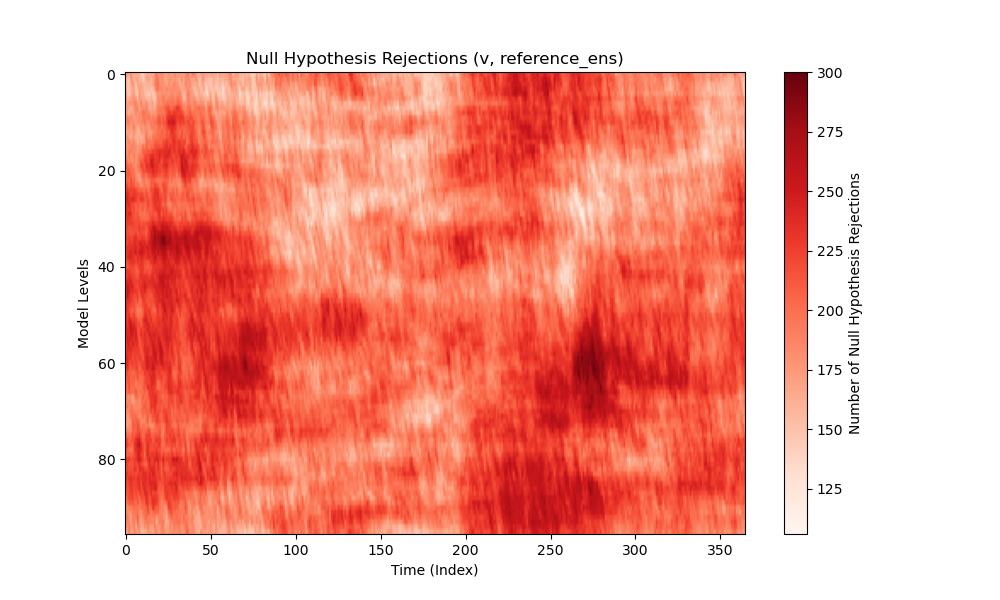
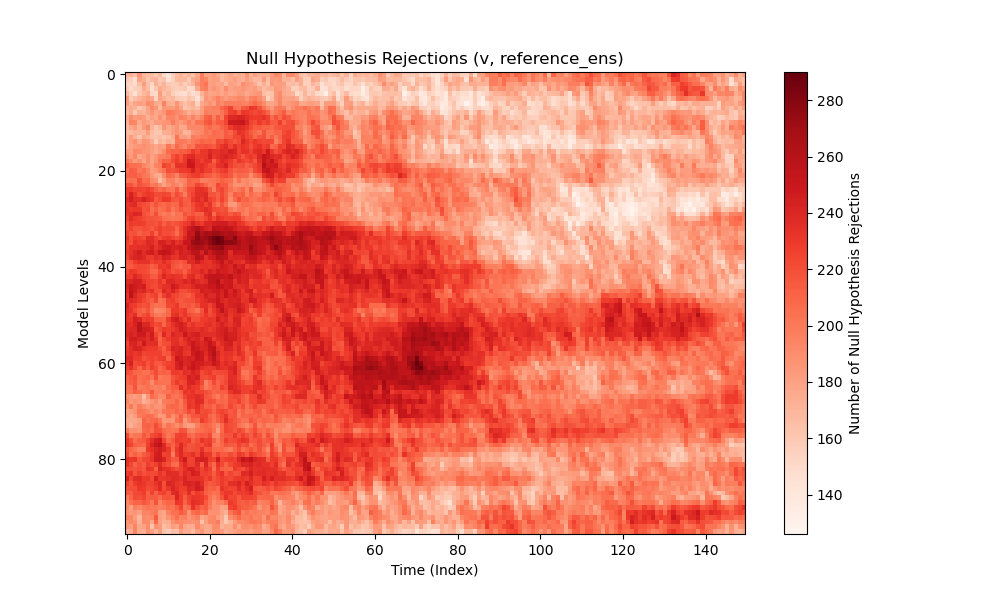
Updated code to cut the plots off after 150 days

diff --git a/examine_normality_test_pvals.py b/examine_normality_test_pvals.py
@@ -14,7 +14,14 @@ def load_pvalues(start_date, end_date, ensemble_name, variable_name, day_interva
     """
     dates = np.arange(np.datetime64(start_date), np.datetime64(end_date), np.timedelta64(day_interval, 'D'))
     combined_pvals = []
+    days = 150
+    day_count = 0
+
     for date in dates:
+        if day_count >= days:
+            print(f"Stopping after {days} days.")
+            break
+        
         date_str = date.astype(str).replace('-', '')
         filename = f"{data_dir}/{variable_name}_{ensemble_name}_{date_str}0000_pvalues.pkl"
         
@@ -25,6 +32,8 @@ def load_pvalues(start_date, end_date, ensemble_name, variable_name, day_interva
         with open(filename, 'rb') as f:
             data = pickle.load(f)
             combined_pvals.append(data["pvalues"])
+        
+        day_count += 1
     
     if not combined_pvals:
         print("No valid pickle files loaded.")
